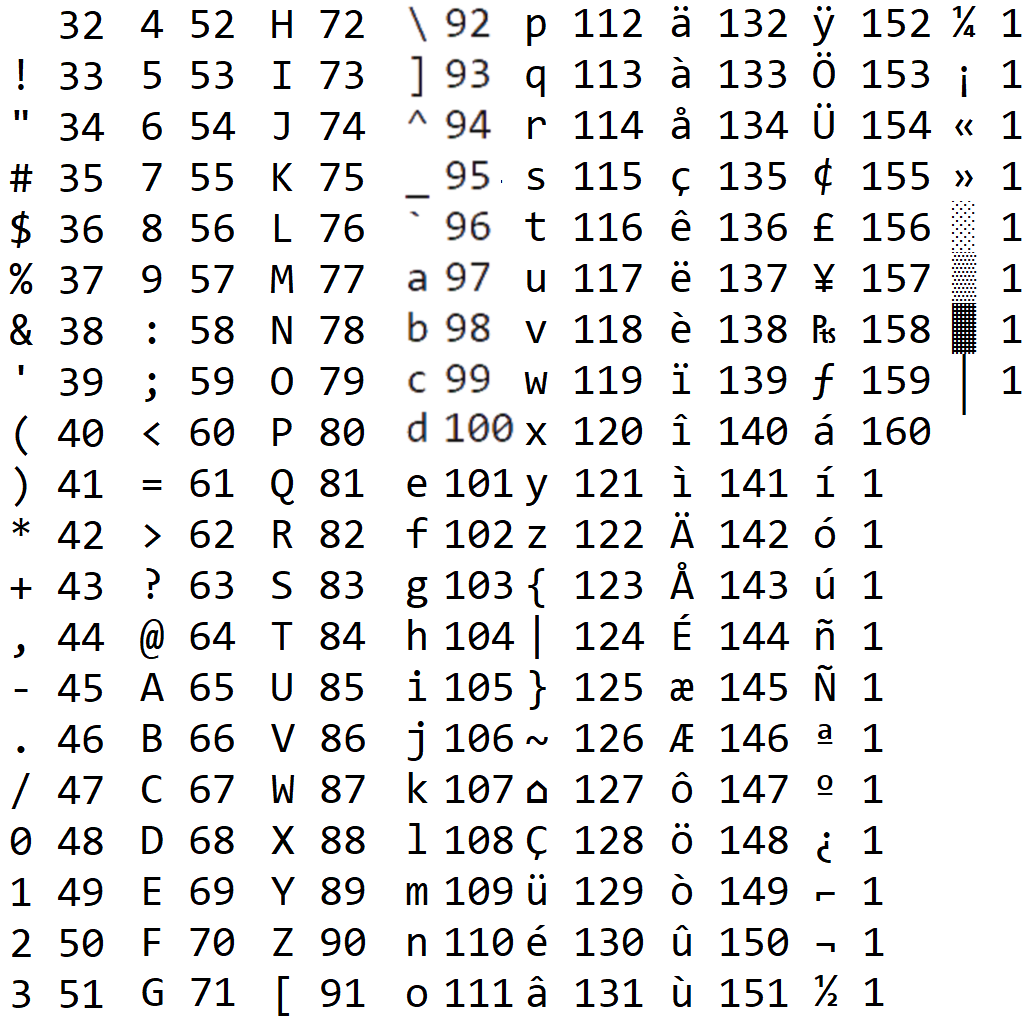
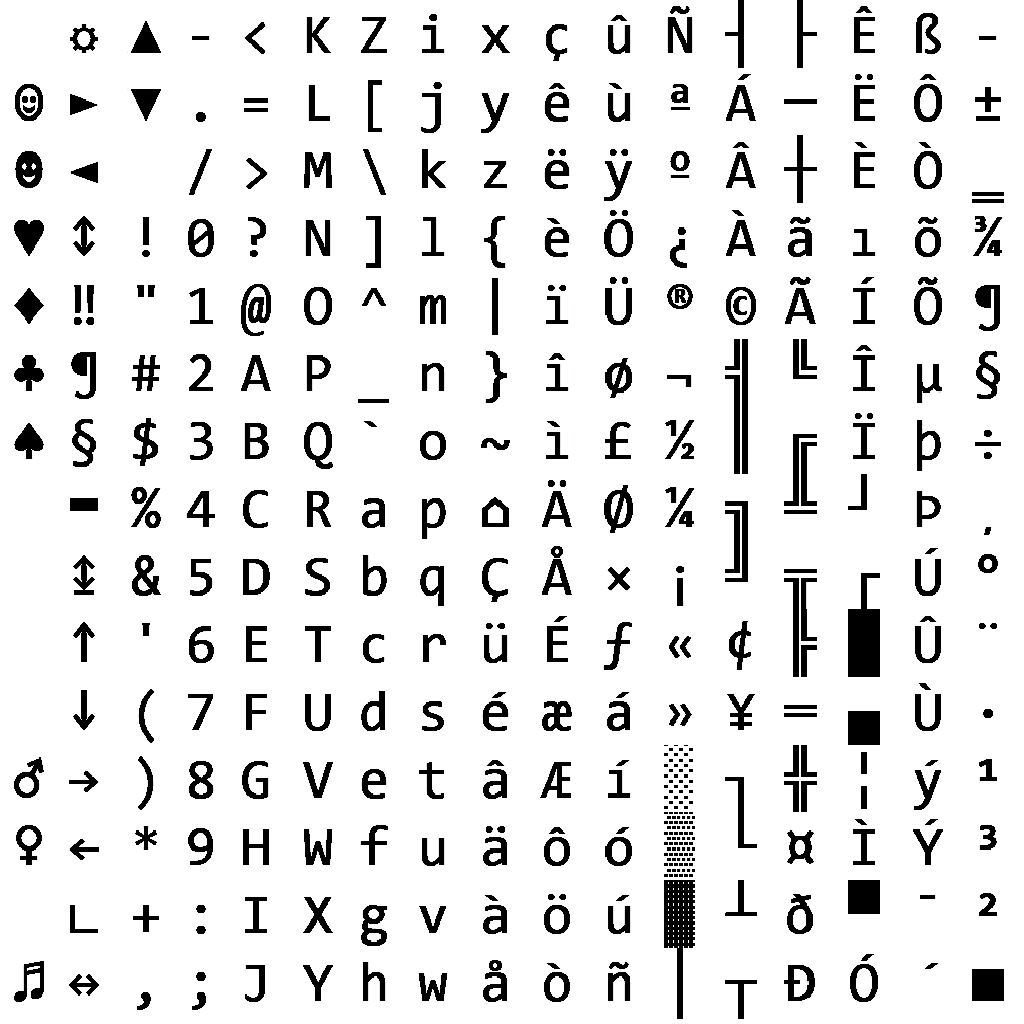
Render clearer and near full ascii-font

diff --git a/text_sprite.cpp b/text_sprite.cpp
@@ -27,12 +27,12 @@ void draw_sprite_text(SPRITE* sprite, const char* text, int wrapat)
     float original_y = sprite->pos[1];
     float sprite_width = sprite->size[0];
     float sprite_height = sprite->size[1];
-    int letters_x = 8;
-    int letters_y = 20;
+    int letters_x = 17;
+    int letters_y = 15;
     float tile_char_top_offset = 0.0f;
-    float tile_char_left_offset = 0.05f;
+    float tile_char_left_offset = 0.0f;
     float tile_char_bottom_offset = 0.0f;
-    float tile_char_right_offset = 0.5f;
+    float tile_char_right_offset = 0.0f;
     float tile_scale = 1.0f;
     float tile_width = 1.0f / (float)letters_x;
     float tile_height = 1.0f / (float)letters_y;
@@ -44,14 +44,15 @@ void draw_sprite_text(SPRITE* sprite, const char* text, int wrapat)
     sprite->size[1] = sprite_height / sprite_aspect;
     float offset_values[4] = {};
     offset_values[2] = tile_width * (1.0f - (tile_char_left_offset + tile_char_right_offset));
-    offset_values[3] = tile_height * (1.0f - (tile_char_top_offset + tile_char_bottom_offset));;
-    for (unsigned int i = 0, c; text[i] != NULL; ++i) {
-        c = text[i] - 32;
+    offset_values[3] = tile_height * (1.0f - (tile_char_top_offset + tile_char_bottom_offset));
+    unsigned int c;
+    for (int i = 0; text[i] != NULL; ++i) {
+        c = ((unsigned int)(unsigned char)text[i]);
         if (i < 0 || i > (int)(0.5 + letters_x * letters_y)) {
             offset_values[0] = offset_values[1] = 0;
         } else {
-            offset_values[0] = (float)((int)c / letters_y) * tile_width + (tile_char_left_offset * tile_width);
-            offset_values[1] = (int)fmod((int)c, letters_y) * tile_height + (tile_char_top_offset * tile_height);
+            offset_values[0] = (float)(c / letters_y) * tile_width + (tile_char_left_offset * tile_width);
+            offset_values[1] = ((int)fmod(c, letters_y)) * tile_height + (tile_char_top_offset * tile_height);
         }
         sprite->pos[0] =
             original_y + ((int)fmod(i, -wrapat) *

diff --git a/maze.cpp b/maze.cpp
@@ -39,9 +39,9 @@ static bool init_crates()
         }
     }
     create_text_sprite(&draw_sprites[36]);
-    set_sprite_size(draw_sprites[36], 0.3f, 0.3f);
+    set_sprite_size(draw_sprites[36], 0.8f, 0.8f);
     set_sprite_vel(draw_sprites[36], 0.0f, 0.0f, 0.0f);
-    set_sprite_pos(draw_sprites[36], 1.5f - 2.0f, 2.0f - 5.0f, Z_POS - 0.05f);
+    set_sprite_pos(draw_sprites[36], 3.5f, -5.5f, Z_POS - 0.05f);
     set_sprite_pos(draw_sprites[1], 1.0f, 1.0f, Z_POS);
     set_sprite_pos(draw_sprites[2], 2.0f, 1.0f, Z_POS);
     set_sprite_pos(draw_sprites[3], 3.0f, 1.0f, Z_POS);
@@ -216,7 +216,7 @@ bool draw_maze()
     update_model_mat(draw_sprites[36]);
     const char* full_string =
         "!\"#$%&'()*+,-./0123456789:;<=>?@ABCDEFGHIJKLMNOPQRSTUVWXYZ[\\]^_`abcdefghi"
-        "jklmnopqrstuvwxyz{|}~";
+        "jklmnopqrstuvwxyz{|}~ÇüéâäàåçêëèïîìÄÅÉæÆôöòûùÿÖÜø£Ø×ƒáíóúñÑªº¿®¬½¼¡«»░▒▓│";
     draw_sprite_text(draw_sprites[36], full_string, 17);
     return true;
 }
